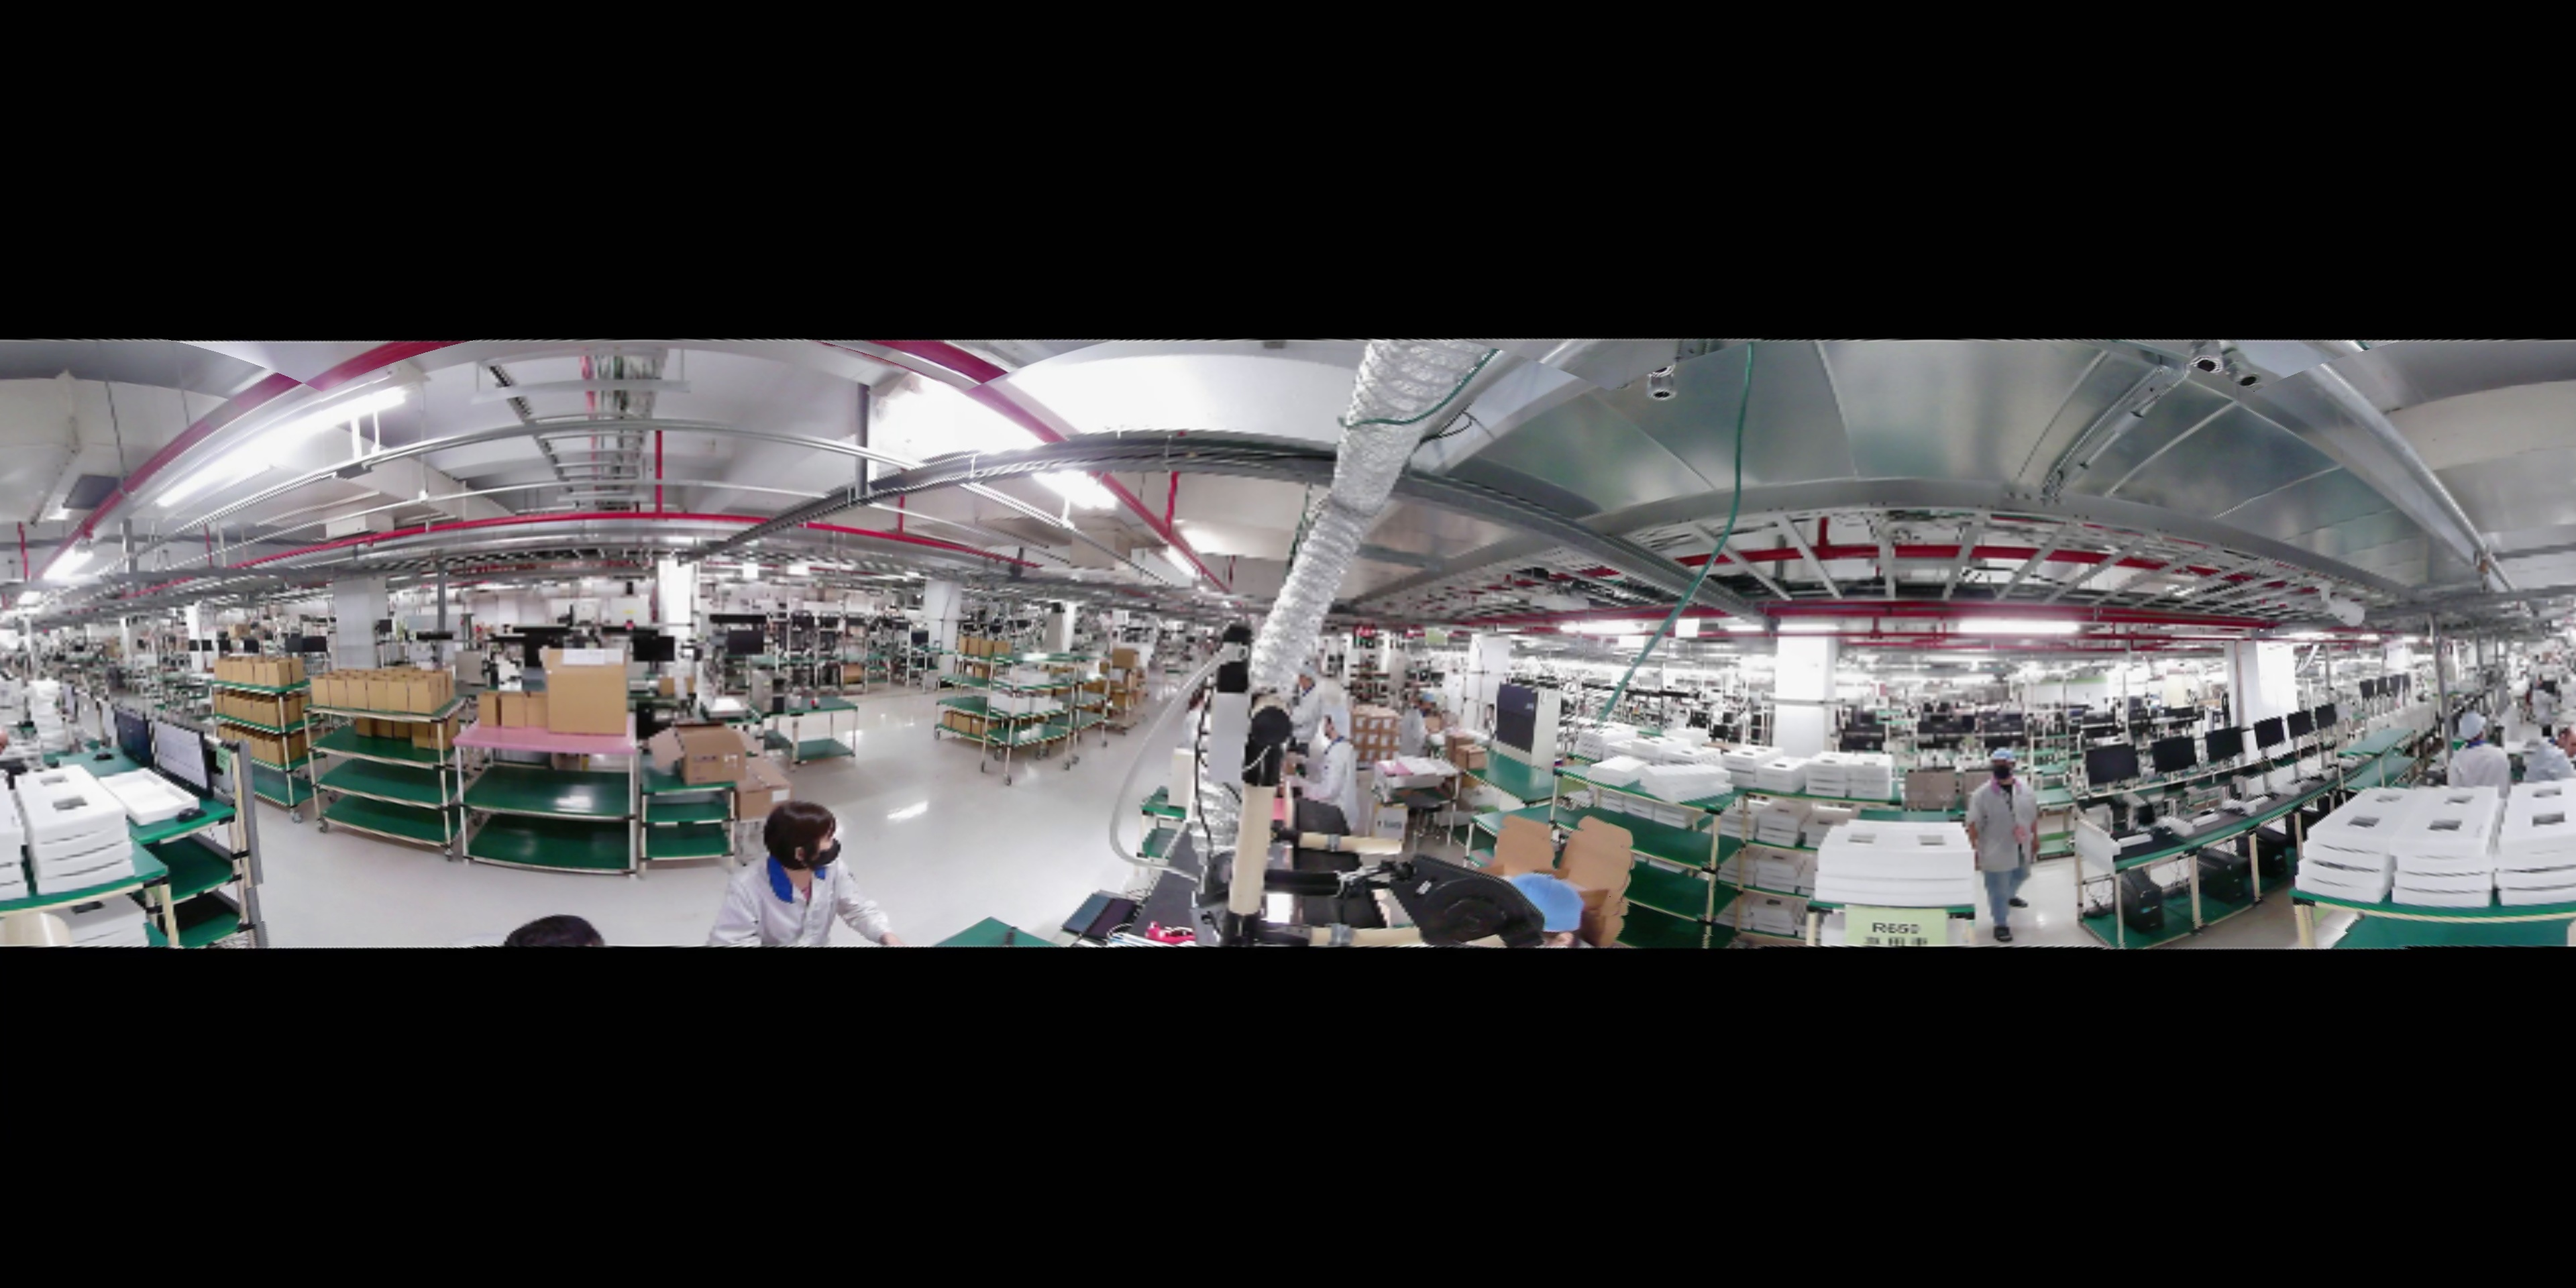
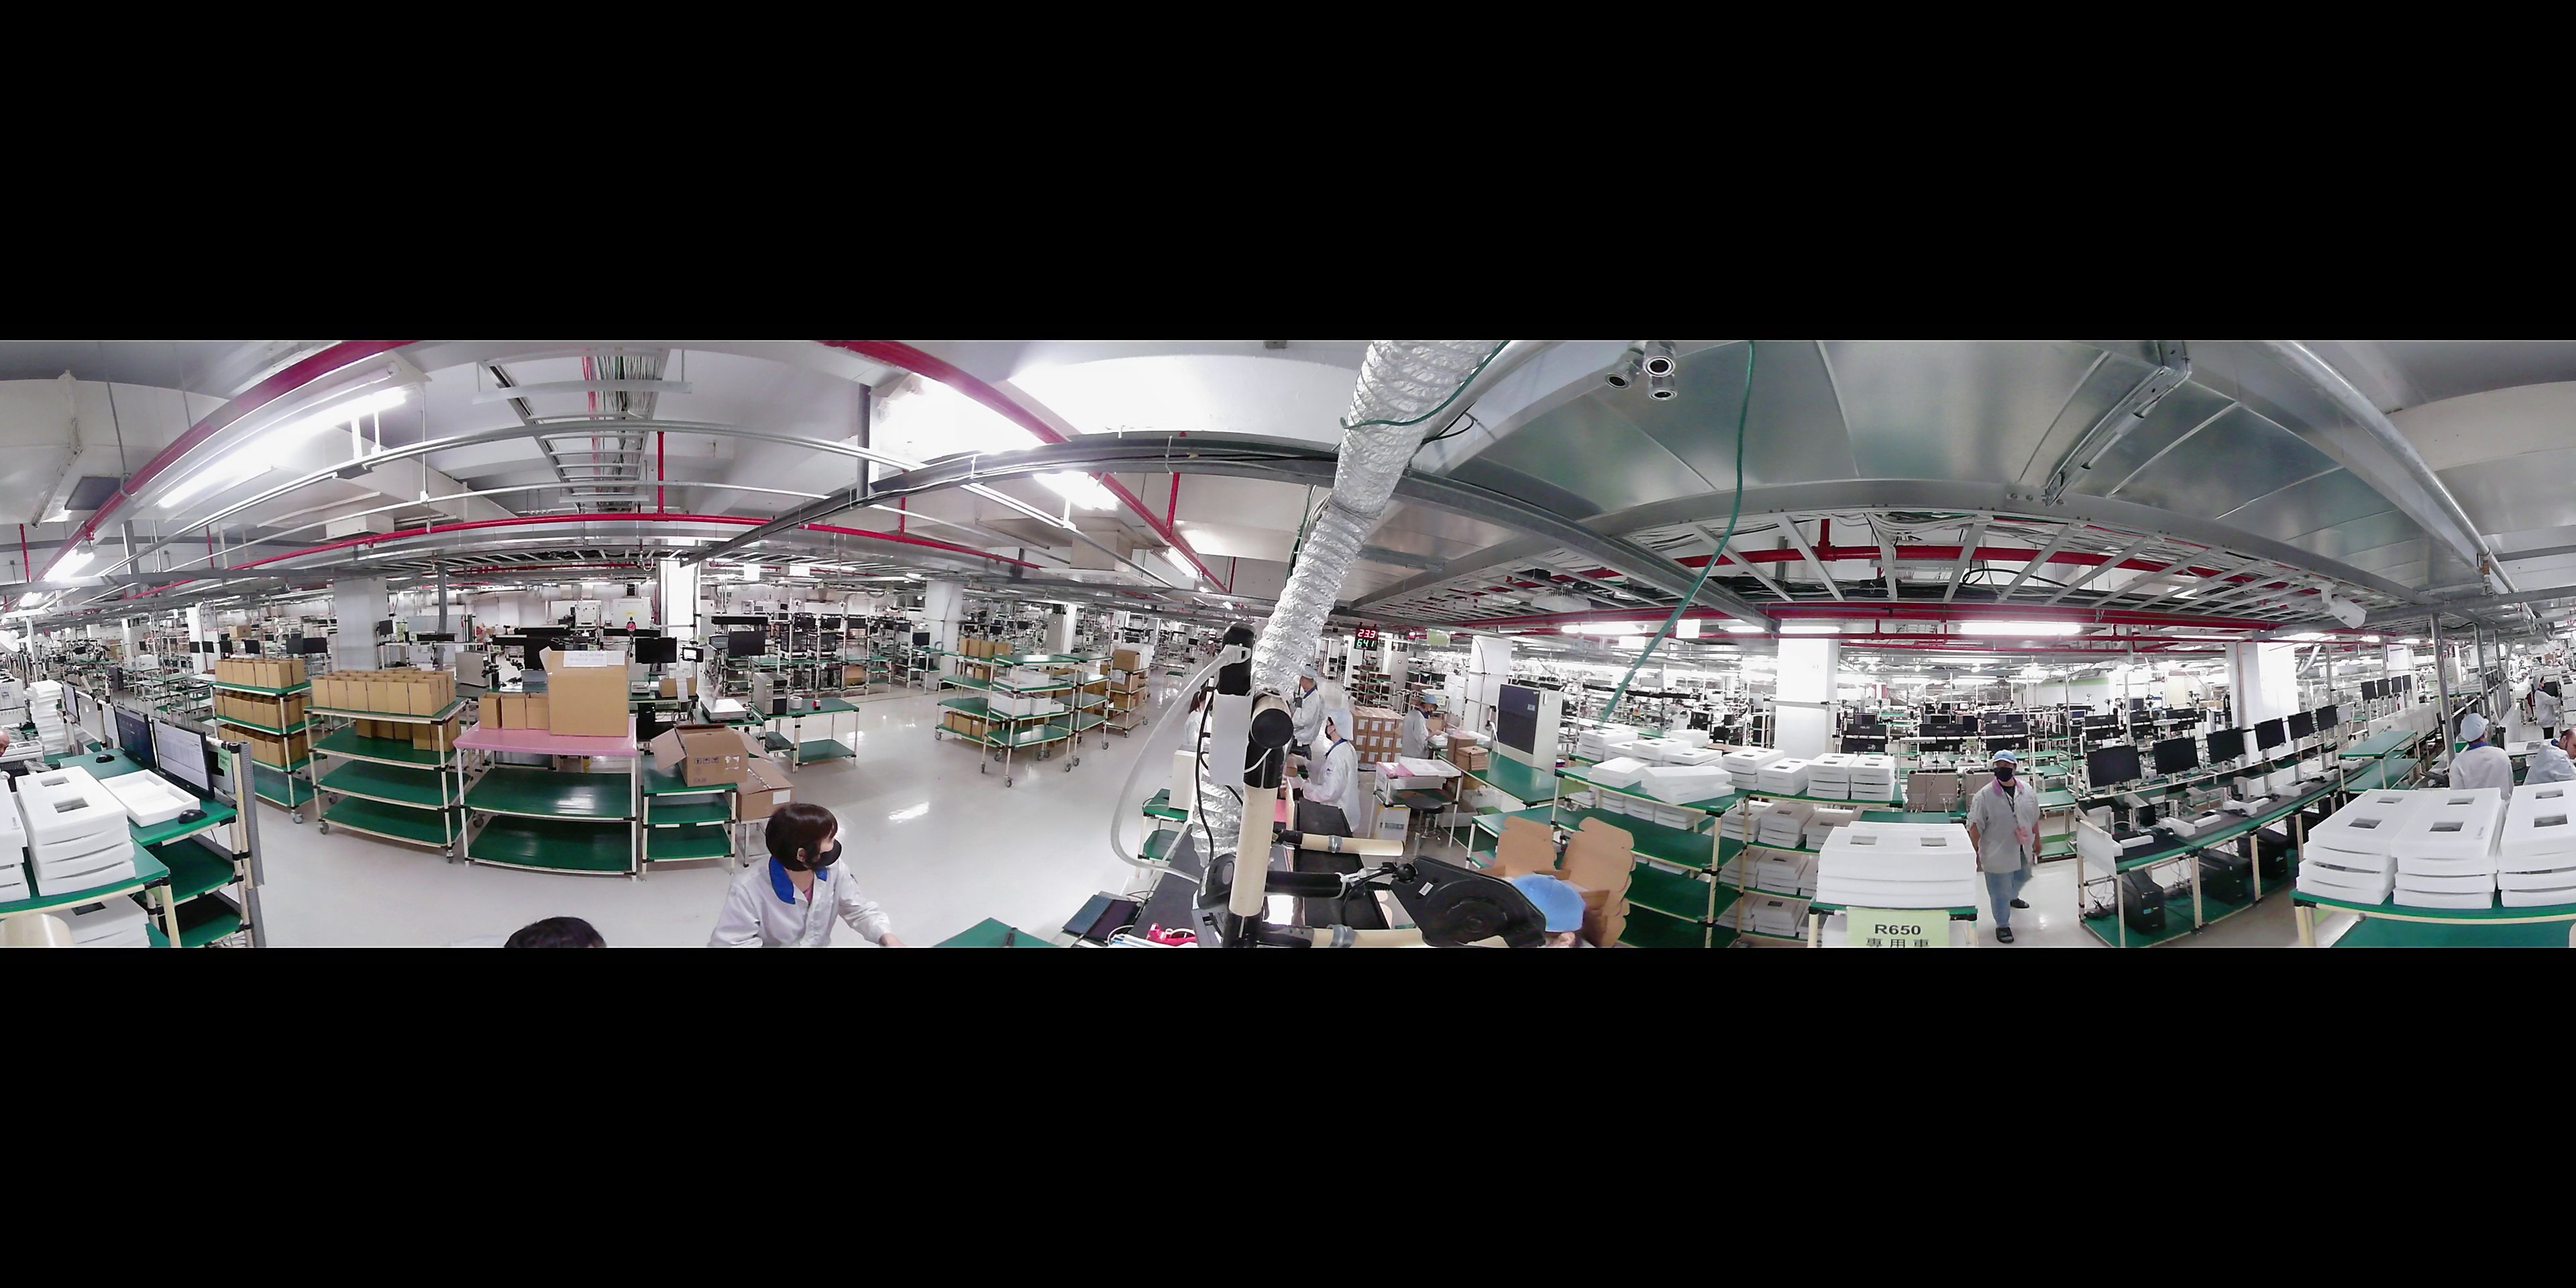
add 2 converter

diff --git a/test.py b/test.py
@@ -1,104 +1,33 @@
-import py360convert
+import time
 import cv2
+# from eqt_box_converter import EQT_Box_Converter 
+# from eqt_lr_converter import EQT_LR_Converter 
+from eqt_4pic_converter import EQT_4pic_Converter 
 
 input_file = "frame_20.jpg"
 input_file_path = './source/'
 output_path = './output/'
 
-# 输出六个面的图像文件路径
-# output_faces_paths = ['front.jpg', 'back.jpg', 'top.jpg', 'bottom.jpg', 'left.jpg', 'right.jpg']
-
-class EQT_Converter():
-    '''
-    convert 360 EQT frame and 6-face mapping 
-    py360convert Docs: https://github.com/sunset1995/py360convert
-    '''
-
-    def __init__(self):
-        self.face_w = 640 #切割後每一個 cube face 的寬度
-        self.equirectangular_w = 3840 #原始 EQT 寬度
-        self.equirectangular_h = 1920 #原始 EQT 高度
-        pass
-
-    
-    def setOriginalEQTSize(self, w, h):
-        self.equirectangular_w = w
-        self.equirectangular_h  = h
-        # print(f"set size {w}, {h}")
-
-
-    def slice(self, frame):
-        '''
-        將 EQT 切成 6 個 cube-map crop
-        '''
-
-        # record original EQT size
-        self.setOriginalEQTSize(frame.shape[1], frame.shape[0])
-
-        # py360convert convert EQT to Cube-map
-        cubeMap = py360convert.e2c(frame, face_w = self.face_w)
-
-        # slice cubemap
-        # crop_img = img[y:y+h, x:x+w]
-        fw = self.face_w # face width
-        crop_front = cubeMap[fw:fw+fw, fw:fw*2]
-        crop_right = cubeMap[fw:fw+fw, fw*2:fw*3]
-        crop_back = cubeMap[fw:fw+fw, fw*3:fw*4]
-        crop_left = cubeMap[fw:fw+fw, 0:fw]
-        crop_up = cubeMap[0:fw, fw*1:fw*2]
-        crop_down = cubeMap[fw*2:fw*3, fw*1:fw*2]
-        
-        # sequence: f, r, b, l, u, d
-        crop_outputs = [crop_front, crop_right, crop_back, crop_left, crop_up, crop_down]
-
-        # save crop images
-        output_path = './slice-debug-output/'
-        for i, crop in enumerate(crop_outputs):
-            cv2.imwrite(f'{output_path}crop-{i}.jpg', crop)
-
-
-        return crop_outputs
-    
-    
-    def assemble(self, crop_frames):
-        '''
-        reassemble 6 cube-map crop to EQT
-        py360convert restriction: a dict with 6 elements with keys 'F', 'R', 'B', 'L', 'U', 'D' each of which is a numpy array in shape of 256 x 256.
-        '''
-        
-        # Validation
-        if len(crop_frames) < 6: 
-            raise ValueError(f"crop_frames len should be 6, but only get {len(crop_frames)}")
-        
-        crop_dict = {'F': None, 'R': None, 'B': None, 'L': None, 'U': None, 'D': None}
-        crop_dict['F'] = cv2.resize(crop_frames[0], (256, 256))
-        crop_dict['R'] = cv2.flip(cv2.resize(crop_frames[1], (256, 256)), 1) # 1 表示水平翻轉
-        crop_dict['B'] = cv2.flip(cv2.resize(crop_frames[2], (256, 256)), 1) # 1 表示水平翻轉
-        crop_dict['L'] = cv2.resize(crop_frames[3], (256, 256))
-        crop_dict['U'] = cv2.resize(crop_frames[4], (256, 256))
-        crop_dict['D'] = cv2.resize(crop_frames[5], (256, 256))
-
-
-        # save crop images
-        # output_path = './assemble-debug-output/'
-        # for i, crop in enumerate(crop_dict.values()):
-        #     cv2.imwrite(f'{output_path}crop-{i}.jpg', crop)
-
-        eqt = py360convert.c2e(crop_dict, h= self.equirectangular_h, w=self.equirectangular_w, cube_format='dict')
-
-        return eqt
-
-
 
 
 if __name__ == "__main__":
 
-    eqtConverter = EQT_Converter()
+    eqtConverter = EQT_4pic_Converter()
 
     frame = cv2.imread(input_file_path+input_file)
+
+    timer = time.time()
+
     crop_outputs = eqtConverter.slice(frame)
 
+
+    print(f"slice cost time: {time.time() - timer}")
+    timer = time.time()
+    
     assembled_eqt = eqtConverter.assemble(crop_outputs)
+
+    print(f"assemble cost time: {time.time() - timer}")
+    timer = time.time()
 
     output_path = './output/'
     cv2.imwrite(f'{output_path}assemble.jpg', assembled_eqt)

diff --git a/eqt_box_converter.py b/eqt_box_converter.py
@@ -1,0 +1,82 @@
+import py360convert
+import cv2
+import time
+
+class EQT_Box_Converter():
+    '''
+    convert 360 EQT frame and 6-face mapping 
+    py360convert Docs: https://github.com/sunset1995/py360convert
+    '''
+
+    def __init__(self):
+        self.face_w = 640 #切割後每一個 cube face 的寬度
+        self.eqt_w = 3840 #原始 EQT 寬度
+        self.eqt_h = 1920 #原始 EQT 高度
+    
+
+    
+    def setOriginalEQTSize(self, w, h):
+        self.eqt_w = w
+        self.eqt_h  = h
+        # print(f"set size {w}, {h}")
+
+
+    def slice(self, frame):
+        '''
+        將 EQT 切成 6 個 cube-map crop
+        '''
+
+        # record original EQT size
+        self.setOriginalEQTSize(frame.shape[1], frame.shape[0])
+
+        # py360convert convert EQT to Cube-map
+        cubeMap = py360convert.e2c(frame, face_w = self.face_w)
+
+        # slice cubemap
+        # crop_img = img[y:y+h, x:x+w]
+        fw = self.face_w # face width
+        crop_front = cubeMap[fw:fw+fw, fw:fw*2]
+        crop_right = cubeMap[fw:fw+fw, fw*2:fw*3]
+        crop_back = cubeMap[fw:fw+fw, fw*3:fw*4]
+        crop_left = cubeMap[fw:fw+fw, 0:fw]
+        crop_up = cubeMap[0:fw, fw*1:fw*2]
+        crop_down = cubeMap[fw*2:fw*3, fw*1:fw*2]
+        
+        # sequence: f, r, b, l, u, d
+        crop_outputs = [crop_front, crop_right, crop_back, crop_left, crop_up, crop_down]
+
+        # save crop images
+        output_path = './output/'
+        for i, crop in enumerate(crop_outputs):
+            cv2.imwrite(f'{output_path}crop-box-{i}.jpg', crop)
+
+
+        return crop_outputs
+    
+    
+    def assemble(self, crop_frames):
+        '''
+        reassemble 6 cube-map crop to EQT
+        py360convert restriction: a dict with 6 elements with keys 'F', 'R', 'B', 'L', 'U', 'D' each of which is a numpy array in shape of 256 x 256.
+        '''
+        
+        # Validation
+        if len(crop_frames) != 6: 
+            raise ValueError(f"crop_frames len should be 6, but only get {len(crop_frames)}")
+
+        # resize
+        for i in range(len(crop_frames)):
+            crop_frames[i] = cv2.resize(crop_frames[i], (255, 255))
+
+        # formatting crop_dict
+        crop_dict = {'F': None, 'R': None, 'B': None, 'L': None, 'U': None, 'D': None}
+        crop_dict['F'] = crop_frames[0]
+        crop_dict['R'] = cv2.flip(crop_frames[1], 1) # 1 表示水平翻轉
+        crop_dict['B'] = cv2.flip(crop_frames[2], 1) # 1 表示水平翻轉
+        crop_dict['L'] = crop_frames[3]
+        crop_dict['U'] = crop_frames[4]
+        crop_dict['D'] = crop_frames[5]
+
+        eqt = py360convert.c2e(crop_dict, h= self.eqt_h, w=self.eqt_w, cube_format='dict')
+
+        return eqt

diff --git a/eqt_4pic_converter.py b/eqt_4pic_converter.py
@@ -1,0 +1,67 @@
+import cv2
+import numpy as np
+
+class EQT_4pic_Converter():
+    '''
+    Convert 360 EQT frame to 4 pic
+    '''
+
+    def __init__(self):
+        self.eqt_w = 3840 #原始 EQT 寬度
+        self.eqt_h = 1920 #原始 EQT 高度
+    
+
+    
+    def setOriginalEQTSize(self, w, h):
+        self.eqt_w = w
+        self.eqt_h  = h
+        # print(f"set size {w}, {h}")
+
+
+    def slice(self, frame):
+        '''
+        Slice EQT to left and right frame
+        '''
+
+        # record original EQT size
+        self.setOriginalEQTSize(frame.shape[1], frame.shape[0])
+
+
+        slice_width = int(self.eqt_w/4) # width for each slice
+        image_y_range = [int(self.eqt_h/4), int(self.eqt_h/4*3)] # only y index in this range has img
+
+        # slice cubemap
+        # crop_img = img[y:y+h, x:x+w]
+        crop_0 = frame[image_y_range[0]:image_y_range[1] , 0:slice_width]
+        crop_1 = frame[image_y_range[0]:image_y_range[1] , slice_width:slice_width*2]
+        crop_2 = frame[image_y_range[0]:image_y_range[1] , slice_width*2:slice_width*3]
+        crop_3 = frame[image_y_range[0]:image_y_range[1] , slice_width*3:self.eqt_w]
+
+        
+        # sequence: left, right
+        crop_outputs = [crop_0, crop_1, crop_2, crop_3]
+
+        # save crop images
+        # output_path = './output/'
+        # for i, crop in enumerate(crop_outputs):
+        #     cv2.imwrite(f'{output_path}crop-4pic-{i}.jpg', crop)
+
+        return crop_outputs
+    
+    
+    def assemble(self, crop_frames):
+        '''
+        reassemble left & right crop to EQT
+        '''
+        
+        # Validation
+        if len(crop_frames) != 4: 
+            raise ValueError(f"crop_frames len should be 2, but only get {len(crop_frames)}")
+
+        # assemble crops
+        eqt = cv2.hconcat(crop_frames)
+        # add black border
+        blank_image = np.zeros((int(self.eqt_h/4), self.eqt_w, 3), dtype=np.uint8)
+        eqt = cv2.vconcat([blank_image, eqt, blank_image])
+
+        return eqt

diff --git a/eqt_lr_converter.py b/eqt_lr_converter.py
@@ -1,0 +1,56 @@
+import cv2
+
+class EQT_LR_Converter():
+    '''
+    Convert 360 EQT frame to left right frame and 
+    '''
+
+    def __init__(self):
+        self.eqt_w = 3840 #原始 EQT 寬度
+        self.eqt_h = 1920 #原始 EQT 高度
+    
+
+    
+    def setOriginalEQTSize(self, w, h):
+        self.eqt_w = w
+        self.eqt_h  = h
+        # print(f"set size {w}, {h}")
+
+
+    def slice(self, frame):
+        '''
+        Slice EQT to left and right frame
+        '''
+
+        # record original EQT size
+        self.setOriginalEQTSize(frame.shape[1], frame.shape[0])
+
+
+        # slice cubemap
+        # crop_img = img[y:y+h, x:x+w]
+        crop_left = frame[0:self.eqt_h , 0:int(self.eqt_w/2)]
+        crop_right = frame[0:self.eqt_h, int(self.eqt_w/2):self.eqt_w]
+        
+        # sequence: left, right
+        crop_outputs = [crop_left, crop_right]
+
+        # save crop images
+        output_path = './output/'
+        for i, crop in enumerate(crop_outputs):
+            cv2.imwrite(f'{output_path}crop-lr-{i}.jpg', crop)
+
+        return crop_outputs
+    
+    
+    def assemble(self, crop_frames):
+        '''
+        reassemble left & right crop to EQT
+        '''
+        
+        # Validation
+        if len(crop_frames) != 2: 
+            raise ValueError(f"crop_frames len should be 2, but only get {len(crop_frames)}")
+
+        eqt = cv2.hconcat(crop_frames)
+
+        return eqt

diff --git a/README.md b/README.md
@@ -1,0 +1,2 @@
+# Purpose
+For testing convert EQT and cube mapping
